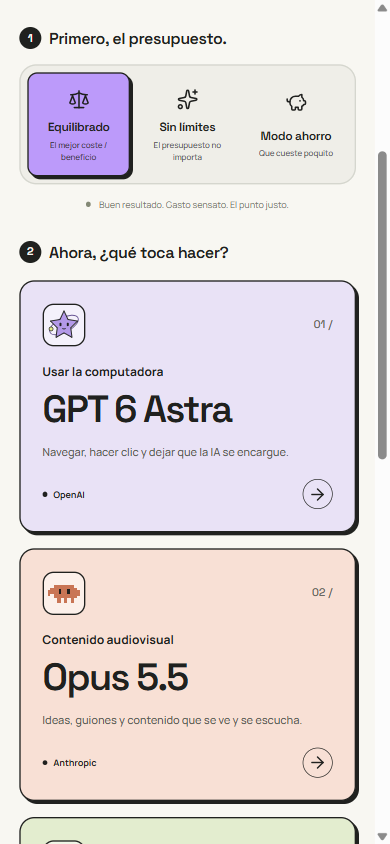
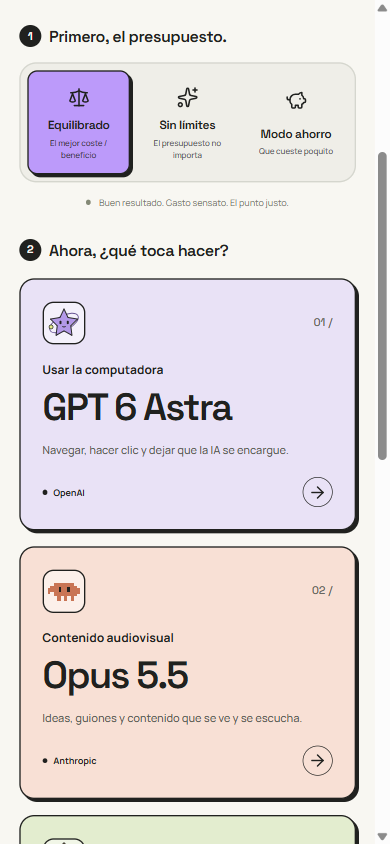
Actualiza las recomendaciones a Haiku 5.5

diff --git a/src/data/recommendations.ts b/src/data/recommendations.ts
@@ -1,8 +1,8 @@
 export type Budget = 'balanced' | 'unlimited' | 'cheap'
 export type TaskId = 'computer' | 'audiovisual' | 'architecture' | 'coding' | 'routine'
-export type ModelId = 'astra' | 'opus' | 'sol' | 'luna'
+export type ModelId = 'astra' | 'opus' | 'sol' | 'haiku'
 
-export const updatedAt = '2026-10-02'
+export const updatedAt = '2026-10-09'
 
 export const budgets: { id: Budget; title: string; subtitle: string; icon: string }[] = [
   { id: 'balanced', title: 'Equilibrado', subtitle: 'El mejor coste / beneficio', icon: 'scale' },
@@ -23,9 +23,9 @@ export const models: Record<ModelId, { name: string; provider: string; effort?: 
     name: 'Sol 6.1', provider: 'OpenAI',
     detail: 'La elección de esta guía para equilibrar coste y resultado en arquitectura y programación, y para contenido audiovisual en modo ahorro.',
   },
-  luna: {
-    name: 'Luna 6.1', provider: 'OpenAI', effort: 'MAX effort',
-    detail: 'La elección de esta guía para tareas sencillas y para programar con un presupuesto ajustado. Configura el esfuerzo en MAX.',
+  haiku: {
+    name: 'Haiku 5.5', provider: 'Anthropic',
+    detail: 'La elección de esta guía para tareas sencillas y para programar con un presupuesto ajustado.',
   },
 }
 
@@ -58,15 +58,15 @@ export const tasks: {
     id: 'coding', title: 'Picar código',
     description: 'De la idea al código. Y del bug al «ya funciona».',
     examples: ['Construir una función', 'Resolver un bug', 'Refactorizar código'],
-    choices: { balanced: 'sol', unlimited: 'opus', cheap: 'luna' },
-    note: 'En modo ahorro, usa Luna 6.1 con MAX effort.',
+    choices: { balanced: 'sol', unlimited: 'opus', cheap: 'haiku' },
+    note: 'En modo ahorro, usa Haiku 5.5 de Anthropic.',
   },
   {
     id: 'routine', title: 'Una tarea rapidita',
     description: 'Un commit, un pequeño cambio, un trámite. Hecho.',
     examples: ['Preparar un commit', 'Renombrar algo', 'Hacer un cambio sencillo'],
-    choices: { balanced: 'luna' },
-    note: 'Luna 6.1 con MAX effort en los tres presupuestos.',
+    choices: { balanced: 'haiku' },
+    note: 'Haiku 5.5 de Anthropic en los tres presupuestos.',
   },
 ]
 

diff --git a/src/components/ModelMascot.vue b/src/components/ModelMascot.vue
@@ -7,14 +7,14 @@ const names: Record<ModelId, string> = {
   astra: 'Mascota de Astra',
   opus: 'Clawd, mascota de Claude',
   sol: 'Mascota de Sol',
-  luna: 'Mascota de Luna',
+  haiku: 'Clawd, mascota de Claude',
 }
 const label = computed(() => names[props.model])
 </script>
 
 <template>
   <svg class="model-mascot" :class="`mascot-${model}`" :data-model="model" viewBox="0 0 64 64" fill="none" role="img" :aria-label="label" focusable="false">
-    <g v-if="model === 'opus'" class="mascot-body" fill="#c97555" shape-rendering="crispEdges">
+    <g v-if="model === 'opus' || model === 'haiku'" class="mascot-body" fill="#c97555" shape-rendering="crispEdges">
       <path d="M14 16h36v6h6v18h-6v8h-6v-8h-6v8h-6v-8h-6v8h-6v-8h-6v-8H8V22h6Z" />
       <path d="M8 26H4v10h4m48-10h4v10h-4" />
       <g class="mascot-eyes" fill="#20211f"><path d="M23 24h4v9h-4zm15 0h4v9h-4Z" /></g>
@@ -35,13 +35,6 @@ const label = computed(() => names[props.model])
       <g class="mascot-eyes" fill="#20211f"><rect x="24" y="26" width="3.5" height="6" rx="1.7" /><rect x="37" y="26" width="3.5" height="6" rx="1.7" /></g>
       <path d="M27 36q5 6 10 0" stroke="#20211f" stroke-width="1.5" stroke-linecap="round" />
       <circle cx="21" cy="35" r="2.5" fill="#df9d66" /><circle cx="44" cy="35" r="2.5" fill="#df9d66" />
-    </g>
-    <g v-else class="mascot-body">
-      <path d="M39 7A25 25 0 1 0 57 43 22 22 0 0 1 39 7Z" fill="#b9b4ed" stroke="#20211f" stroke-width="1.7" stroke-linejoin="round" />
-      <circle cx="17" cy="29" r="3" fill="#9890ce" /><circle cx="22" cy="44" r="2.5" fill="#9890ce" />
-      <g class="mascot-eyes" fill="#20211f"><rect x="23" y="27" width="3.5" height="6" rx="1.7" /><rect x="35" y="35" width="3.5" height="6" rx="1.7" /></g>
-      <path d="M25 37q1 5 6 4" stroke="#20211f" stroke-width="1.5" stroke-linecap="round" />
-      <path class="moon-star" d="m51 10 2 5 5 2-5 2-2 5-2-5-5-2 5-2Z" fill="#e4ed87" stroke="#20211f" stroke-width="1.2" stroke-linejoin="round" />
     </g>
   </svg>
 </template>

diff --git a/src/App.vue b/src/App.vue
@@ -120,7 +120,7 @@ onUnmounted(() => {
         <span>qué modelo<span class="brand-end"> usar.</span></span>
       </a>
       <div class="header-actions flex items-center gap-5">
-        <span class="update-label"><span class="status-dot"></span> AL DÍA · 02 OCT 2026</span>
+        <span class="update-label"><span class="status-dot"></span> AL DÍA · 09 OCT 2026</span>
         <button class="sound-toggle flex items-center gap-2" type="button" :aria-pressed="soundEnabled" :aria-label="soundEnabled ? 'Desactivar sonido' : 'Activar sonido'" :disabled="soundUnavailable" @click="toggleSound">
           <component :is="soundEnabled ? Volume2 : VolumeX" :size="17" :stroke-width="1.8" />
           <span>Sonido <strong>{{ soundUnavailable ? 'N/D' : soundEnabled ? 'ON' : 'OFF' }}</strong></span>
@@ -194,7 +194,7 @@ onUnmounted(() => {
 
     <footer class="site-footer flex items-start justify-between gap-4">
       <p>Menos comparar. <strong>Más crear.</strong></p>
-      <div class="footer-meta"><span>Selección editorial · <time :datetime="updatedAt">02 oct 2026</time></span><span>Guía estática. Los modelos cambian; las buenas preguntas, no.</span></div>
+      <div class="footer-meta"><span>Selección editorial · <time :datetime="updatedAt">09 oct 2026</time></span><span>Guía estática. Los modelos cambian; las buenas preguntas, no.</span></div>
     </footer>
 
     <div v-if="celebrating" :key="confettiKey" class="confetti" aria-hidden="true">

diff --git a/tests/recommendations.test.ts b/tests/recommendations.test.ts
@@ -6,8 +6,8 @@ const expected = {
   computer: ['astra', 'astra', null],
   audiovisual: ['opus', 'opus', 'sol'],
   architecture: ['sol', 'opus', 'sol'],
-  coding: ['sol', 'opus', 'luna'],
-  routine: ['luna', 'luna', 'luna'],
+  coding: ['sol', 'opus', 'haiku'],
+  routine: ['haiku', 'haiku', 'haiku'],
 } as const
 
 for (const task of tasks) {
@@ -16,7 +16,11 @@ for (const task of tasks) {
       const recommendation = getRecommendation(task.id, budget.id)
       assert.equal(recommendation.id, expected[task.id][index])
       assert.ok(recommendation.name)
-      if (recommendation.id === 'luna') assert.equal(recommendation.effort, 'MAX effort')
+      if (recommendation.id === 'haiku') {
+        assert.equal(recommendation.name, 'Haiku 5.5')
+        assert.equal(recommendation.provider, 'Anthropic')
+        assert.equal(recommendation.effort, undefined)
+      }
     })
   })
 }
@@ -26,8 +30,9 @@ test('missing cheap architecture choice explicitly falls back to Sol', () => {
   assert.equal(getRecommendation('coding', 'cheap').usesFallback, false)
 })
 
-test('copy text preserves MAX effort and the selected budget', () => {
+test('copy text names Haiku and preserves the selected budget', () => {
   const text = getCopyText('coding', 'cheap')
-  assert.ok(text.includes('Luna 6.1 · MAX effort'))
+  assert.ok(text.includes('Modelo: Haiku 5.5'))
+  assert.ok(!text.includes('MAX effort'))
   assert.ok(text.includes('Modo ahorro'))
 })

diff --git a/src/style.css b/src/style.css
@@ -310,7 +310,6 @@ h1 { position: relative; width: fit-content; margin: 0; font-family: var(--font-
 .task-card:hover .mascot-body { animation: mascot-bounce .7s ease-in-out infinite; }
 .task-card:focus-within .mascot-body { animation: mascot-bounce .7s ease-in-out infinite; }
 .mascot-sol .sun-rays { transform-origin: 32px 32px; animation: sun-wiggle 8s ease-in-out infinite; }
-.moon-star { transform-box: fill-box; transform-origin: center; animation: spark-turn 8s ease-in-out infinite; }
 @keyframes mascot-bounce { 0%,100% { transform: translateY(0) rotate(0); } 35% { transform: translateY(-3px) rotate(-5deg); } 70% { transform: translateY(-1px) rotate(5deg); } }
 @keyframes sun-wiggle { 0%,100% { transform: rotate(0); } 50% { transform: rotate(15deg); } }
 @media (prefers-reduced-motion: reduce) { .model-mascot * { animation: none !important; } }

diff --git a/readme.md b/readme.md
@@ -34,7 +34,7 @@ La vista de escritorio reúne el selector de presupuesto y las cinco tareas en u
 
 ### Sobre las recomendaciones
 
-La selección es editorial y está fechada en la propia web; la versión actual corresponde al **2 de octubre de 2026**. No consulta rankings ni precios en tiempo real, ni ejecuta los modelos: te ayuda a decidir con cuál trabajar. Las capturas reflejan esa selección.
+La selección es editorial y está fechada en la propia web; la versión actual corresponde al **9 de octubre de 2026**. No consulta rankings ni precios en tiempo real, ni ejecuta los modelos: te ayuda a decidir con cuál trabajar. Las capturas reflejan esa selección.
 
 ## Desarrollo
 
@@ -82,7 +82,7 @@ Abre [http://127.0.0.1:3005](http://127.0.0.1:3005). El puerto es fijo: si está
 Al editar las recomendaciones, conserva estas reglas o actualiza también sus pruebas:
 
 - Si una tarea no tiene una elección específica para un presupuesto, se mantiene su opción equilibrada.
-- Luna 6.1 siempre muestra `MAX effort`.
+- Haiku 5.5 de Anthropic se recomienda para Picar código en Modo ahorro y Una tarea rapidita en los tres presupuestos.
 - Usar la computadora en Modo ahorro muestra «ni se te ocurra», sin recomendar un modelo ni mostrar ejemplos.
 
 Actualiza también la fecha visible en `src/App.vue` cuando cambies la fecha editorial de los datos.
